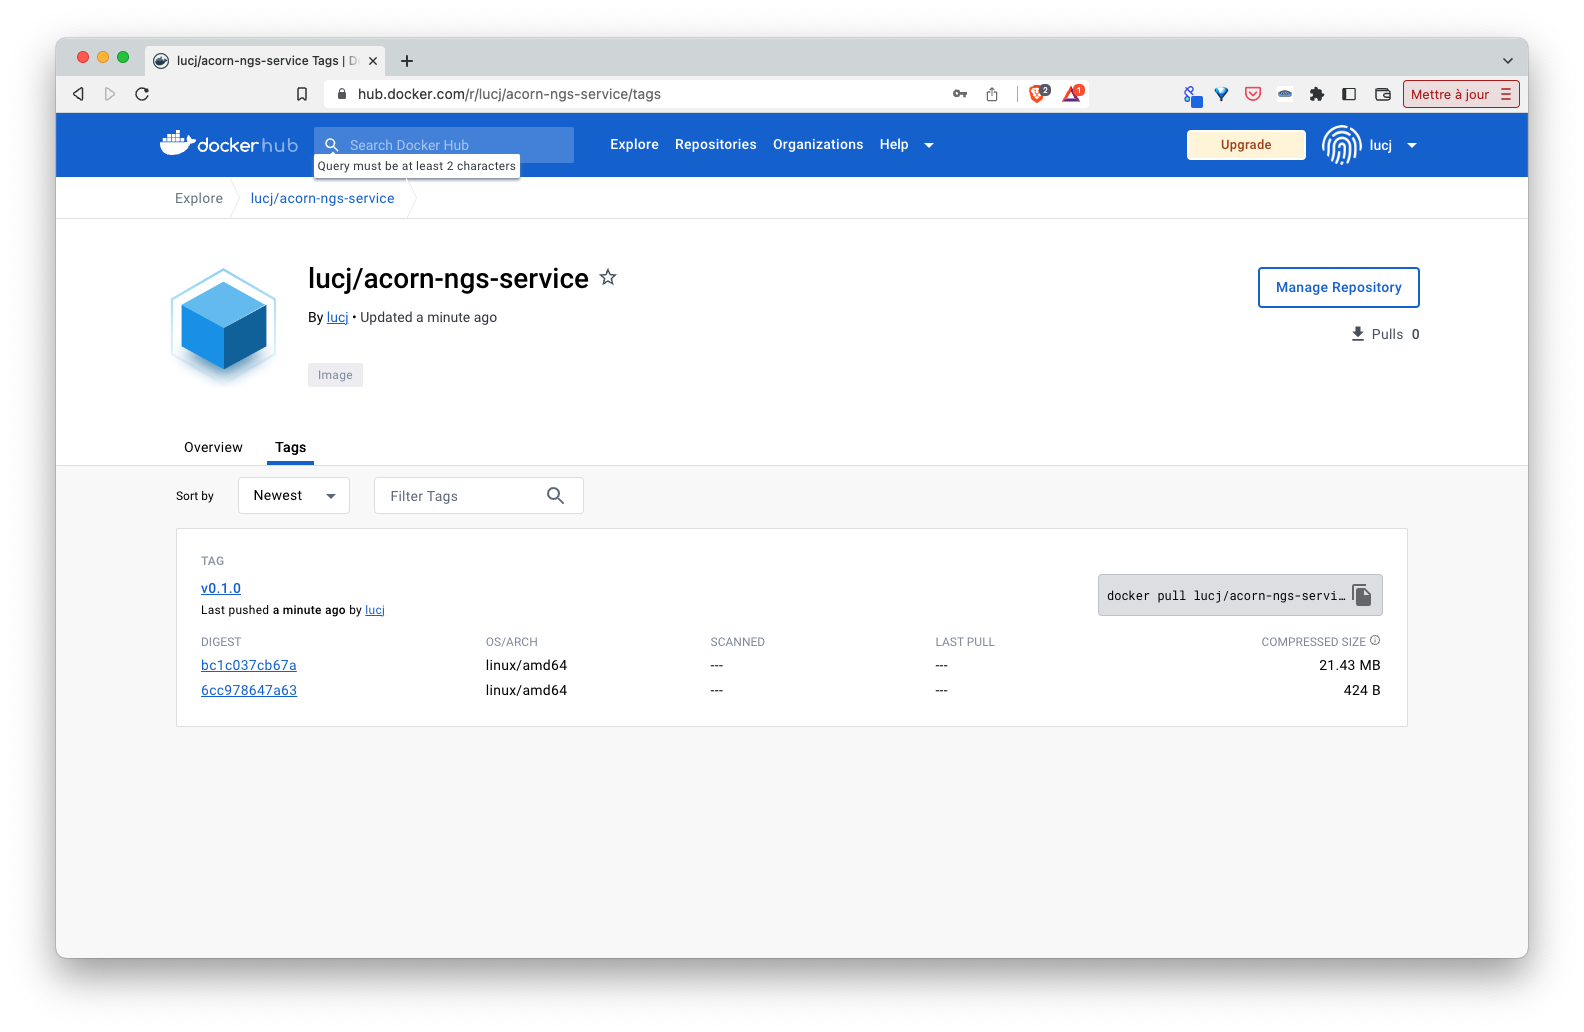
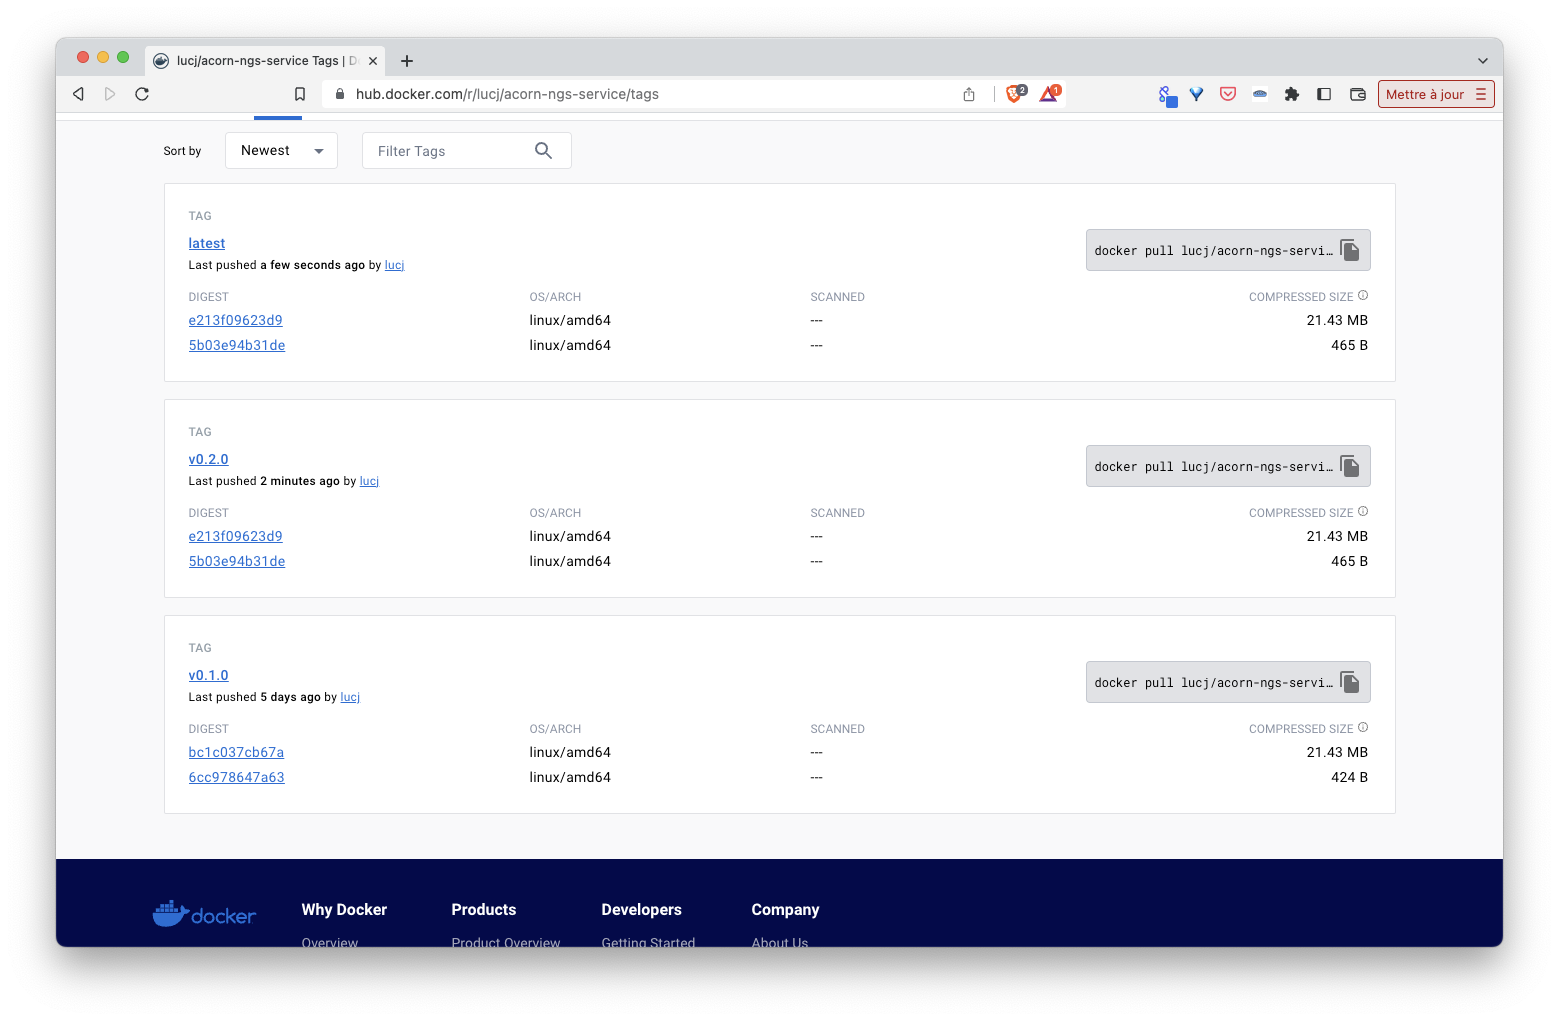
additional details

diff --git a/ngs/README.md b/ngs/README.md
@@ -6,7 +6,25 @@ This folder defines an Acorn service which allows to create a NATS user on NGS o
 
 To use this service you need to have an NGS account and access to this account's private key.
 
-For this demo I set the private key in the *NGS_KEY* environment variable.
+First go to [https://ngs.global](https://ngs.global)
+
+![NGS](./images/ngs-1.png)
+
+Next signin / signup
+
+![NGS](./images/ngs-2.png)
+
+Then select a free account to start with (no credit card needed)
+
+![NGS](./images/ngs-3.png)
+
+Then you will get the credentials to connect to this account
+
+![NGS](./images/ngs-4.png)
+
+For this demo you can set the private key in the *NGS_KEY* environment variable on your local machine.
+
+Note: the external key presented on the above screenshot is not an active one
 
 ## Definition of the service
 
@@ -14,7 +32,6 @@ The [Acornfile](./service/Acornfile) defining the service contains 3 top level k
 - service (*ngs*)
 - job (*create-ngs-service*)
 - secrets (*user-creds* and *ngs-creds*)
-
 
 The *ngs* service is generated by the job *create-ngs-service*. This job contains the logic to create a NGS user, it uses the ngs cli binary present in the container image *lucj/ngs-cli:v0.1.0* and generate a user credentials file.
 
@@ -28,7 +45,7 @@ The service can be called directly from the above Acornfile.
 
 First we need to create the secret *ngs-creds* providing our account's private keys.
 
-Note: the following example uses the environment variable already defined in the current shell 
+Note: the following example uses the *NGS_KEY* environment variable already defined in the current shell 
 
 ```
 acorn secrets create \
@@ -58,13 +75,16 @@ acorn rm ngs -af
 The idea is not to run the service from its own Acornfile but to reference the service by its name from other Acorns. For this purpose we first need to build the image of the service (as we would do for a standard Acorn application):
 
 ```
-acorn build -t docker.io/lucj/acorn-ngs-service:v0.1.0 .
+VERSION=v...
+acorn build -t docker.io/lucj/acorn-ngs-service:$VERSION -t docker.io/lucj/acorn-ngs-service:latest .
 ```
 
 Next we push the image to an OCI registry (Docker Hub in this example):
 
 ```
-acorn push docker.io/lucj/acorn-ngs-service:v0.1.0
+VERSION=...
+acorn push docker.io/lucj/acorn-ngs-service:$VERSION
+acorn push docker.io/lucj/acorn-ngs-service:latest
 ```
 
 ![Acorn image available in the Docker Hub](./images/dockerhub.png)
@@ -96,7 +116,7 @@ The container only tries to connect to NGS using the user credentials  provided 
 
 ```
 services: ngs: {
-    image: "docker.io/lucj/acorn-ngs-service:v0.1.0"
+    image: "docker.io/lucj/acorn-ngs-service"
 }
 
 containers: app: {
@@ -122,7 +142,3 @@ acorn run -n app
 ```
 
 Also, from the *app* container can publish payload and receive a reply every couple of seconds.
-
-### Using the ngs service with a microservice application
-
-TODO
